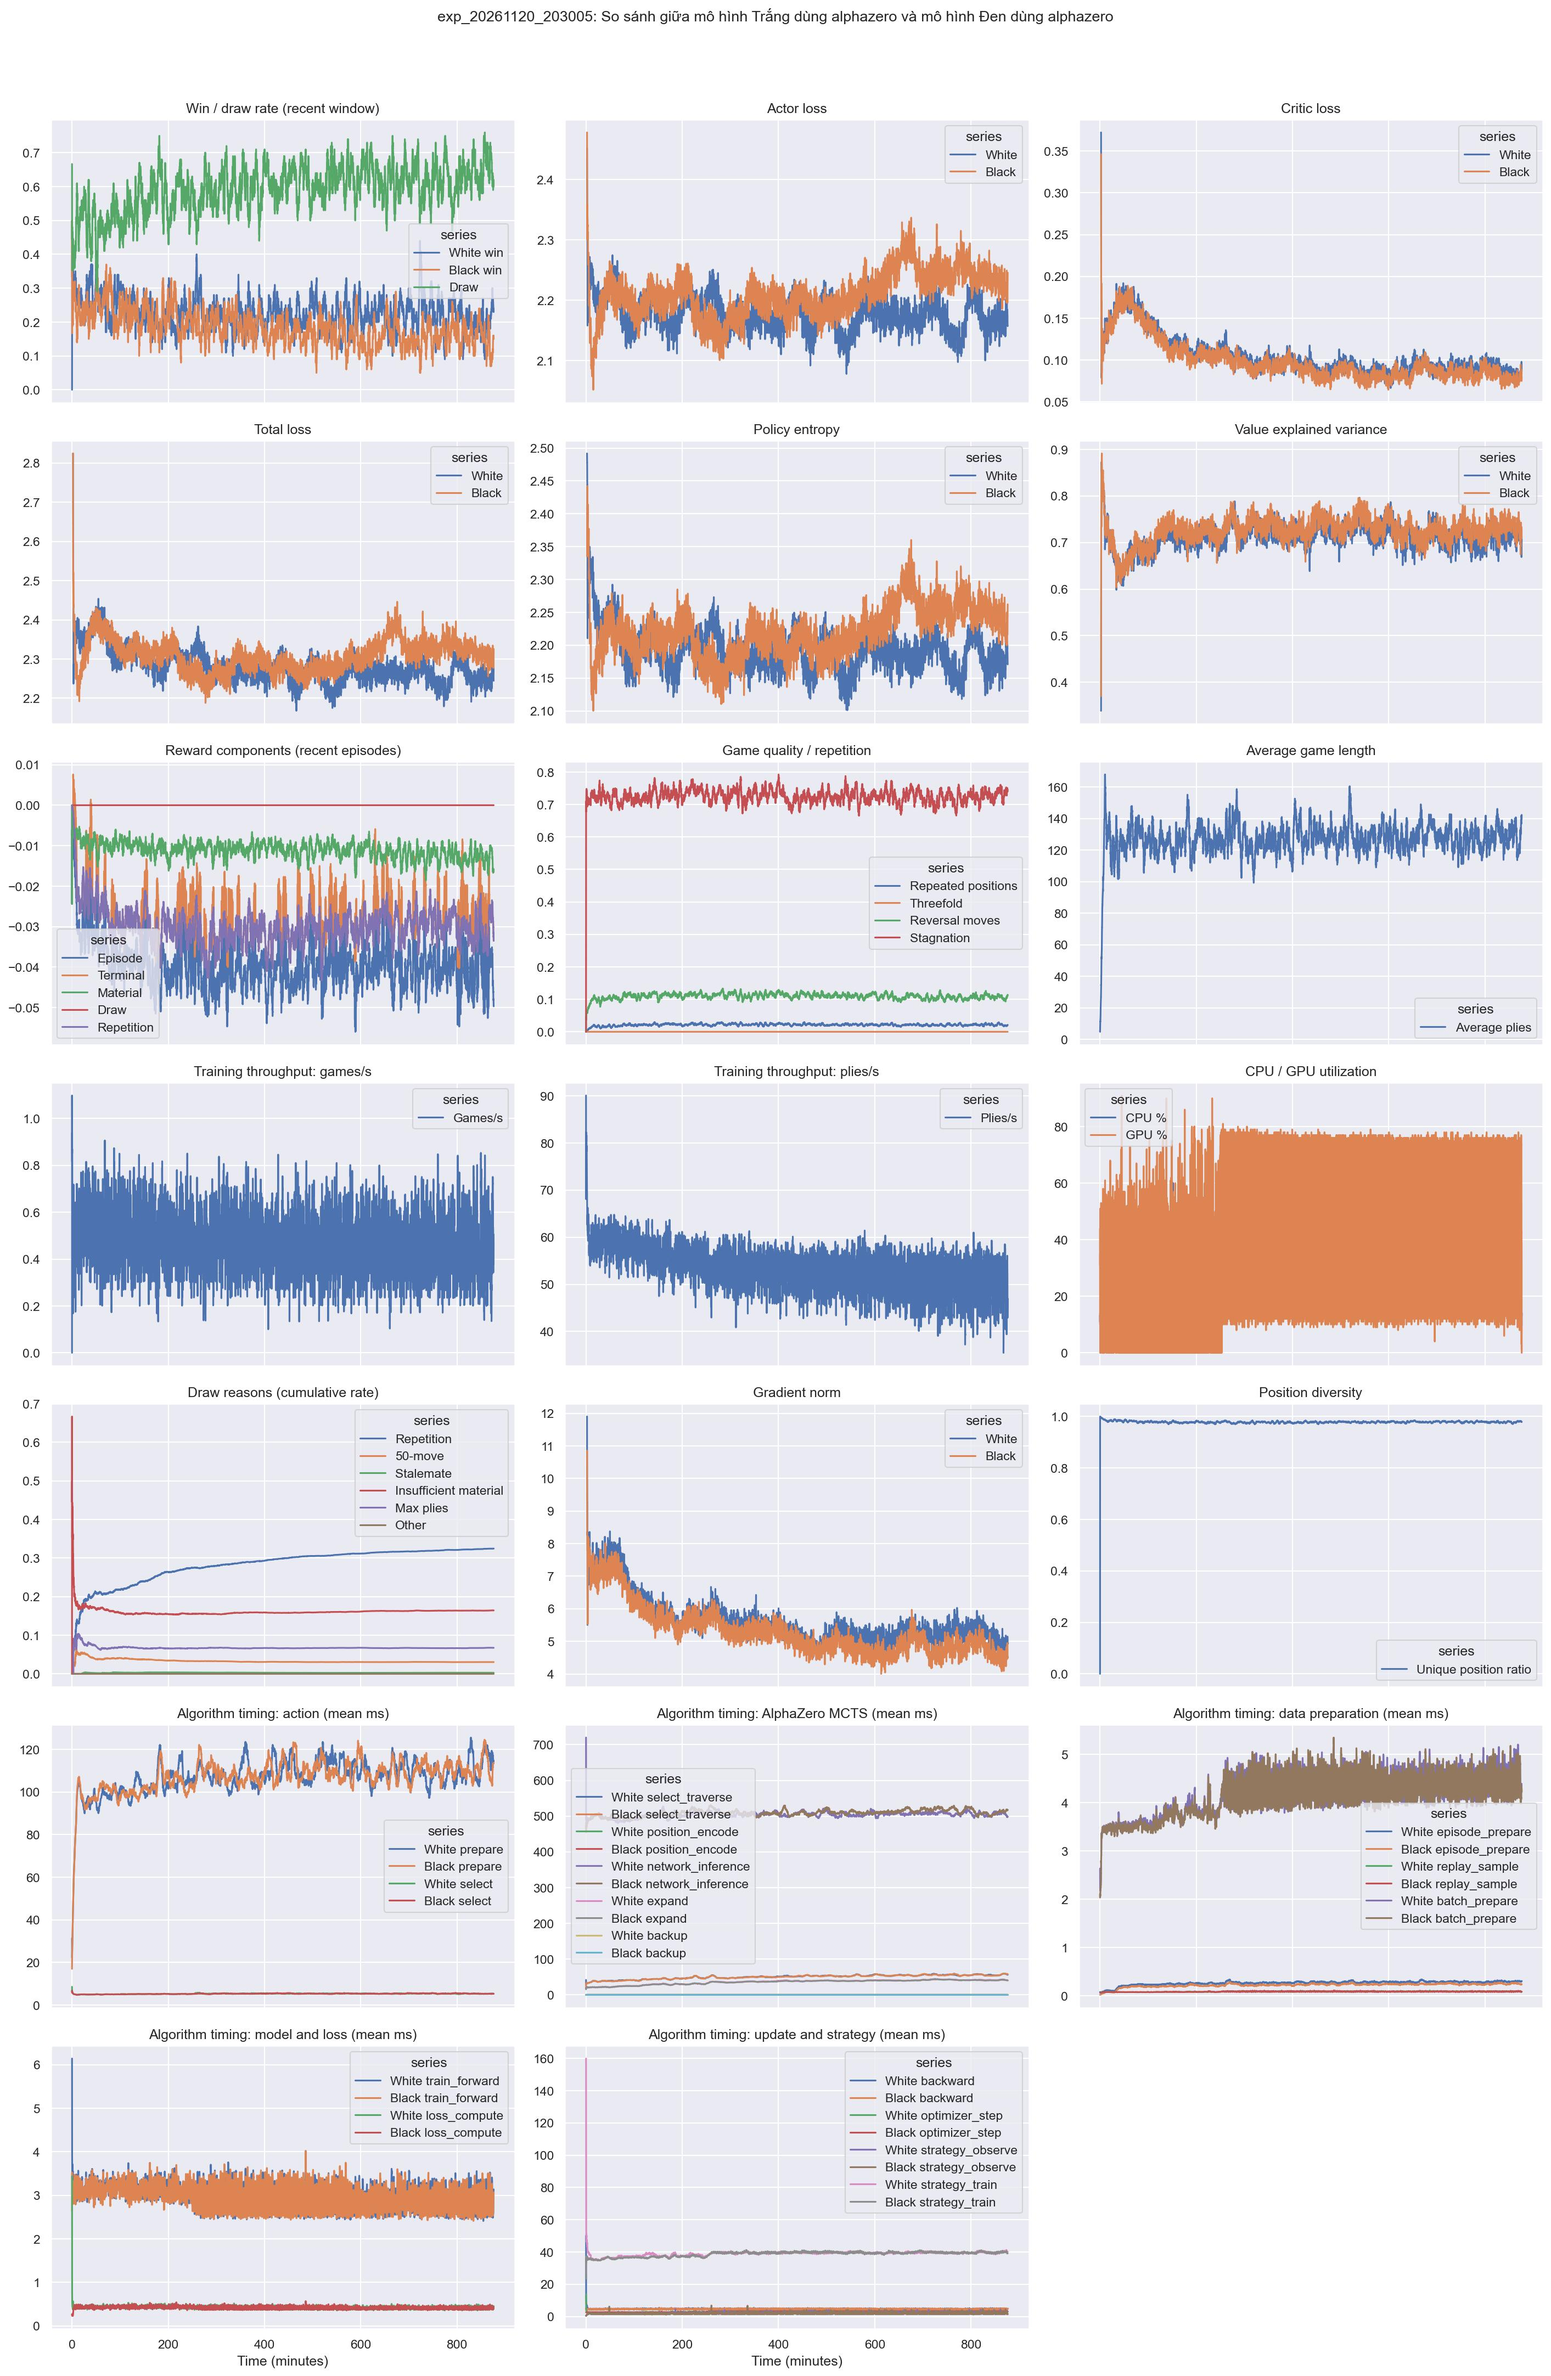
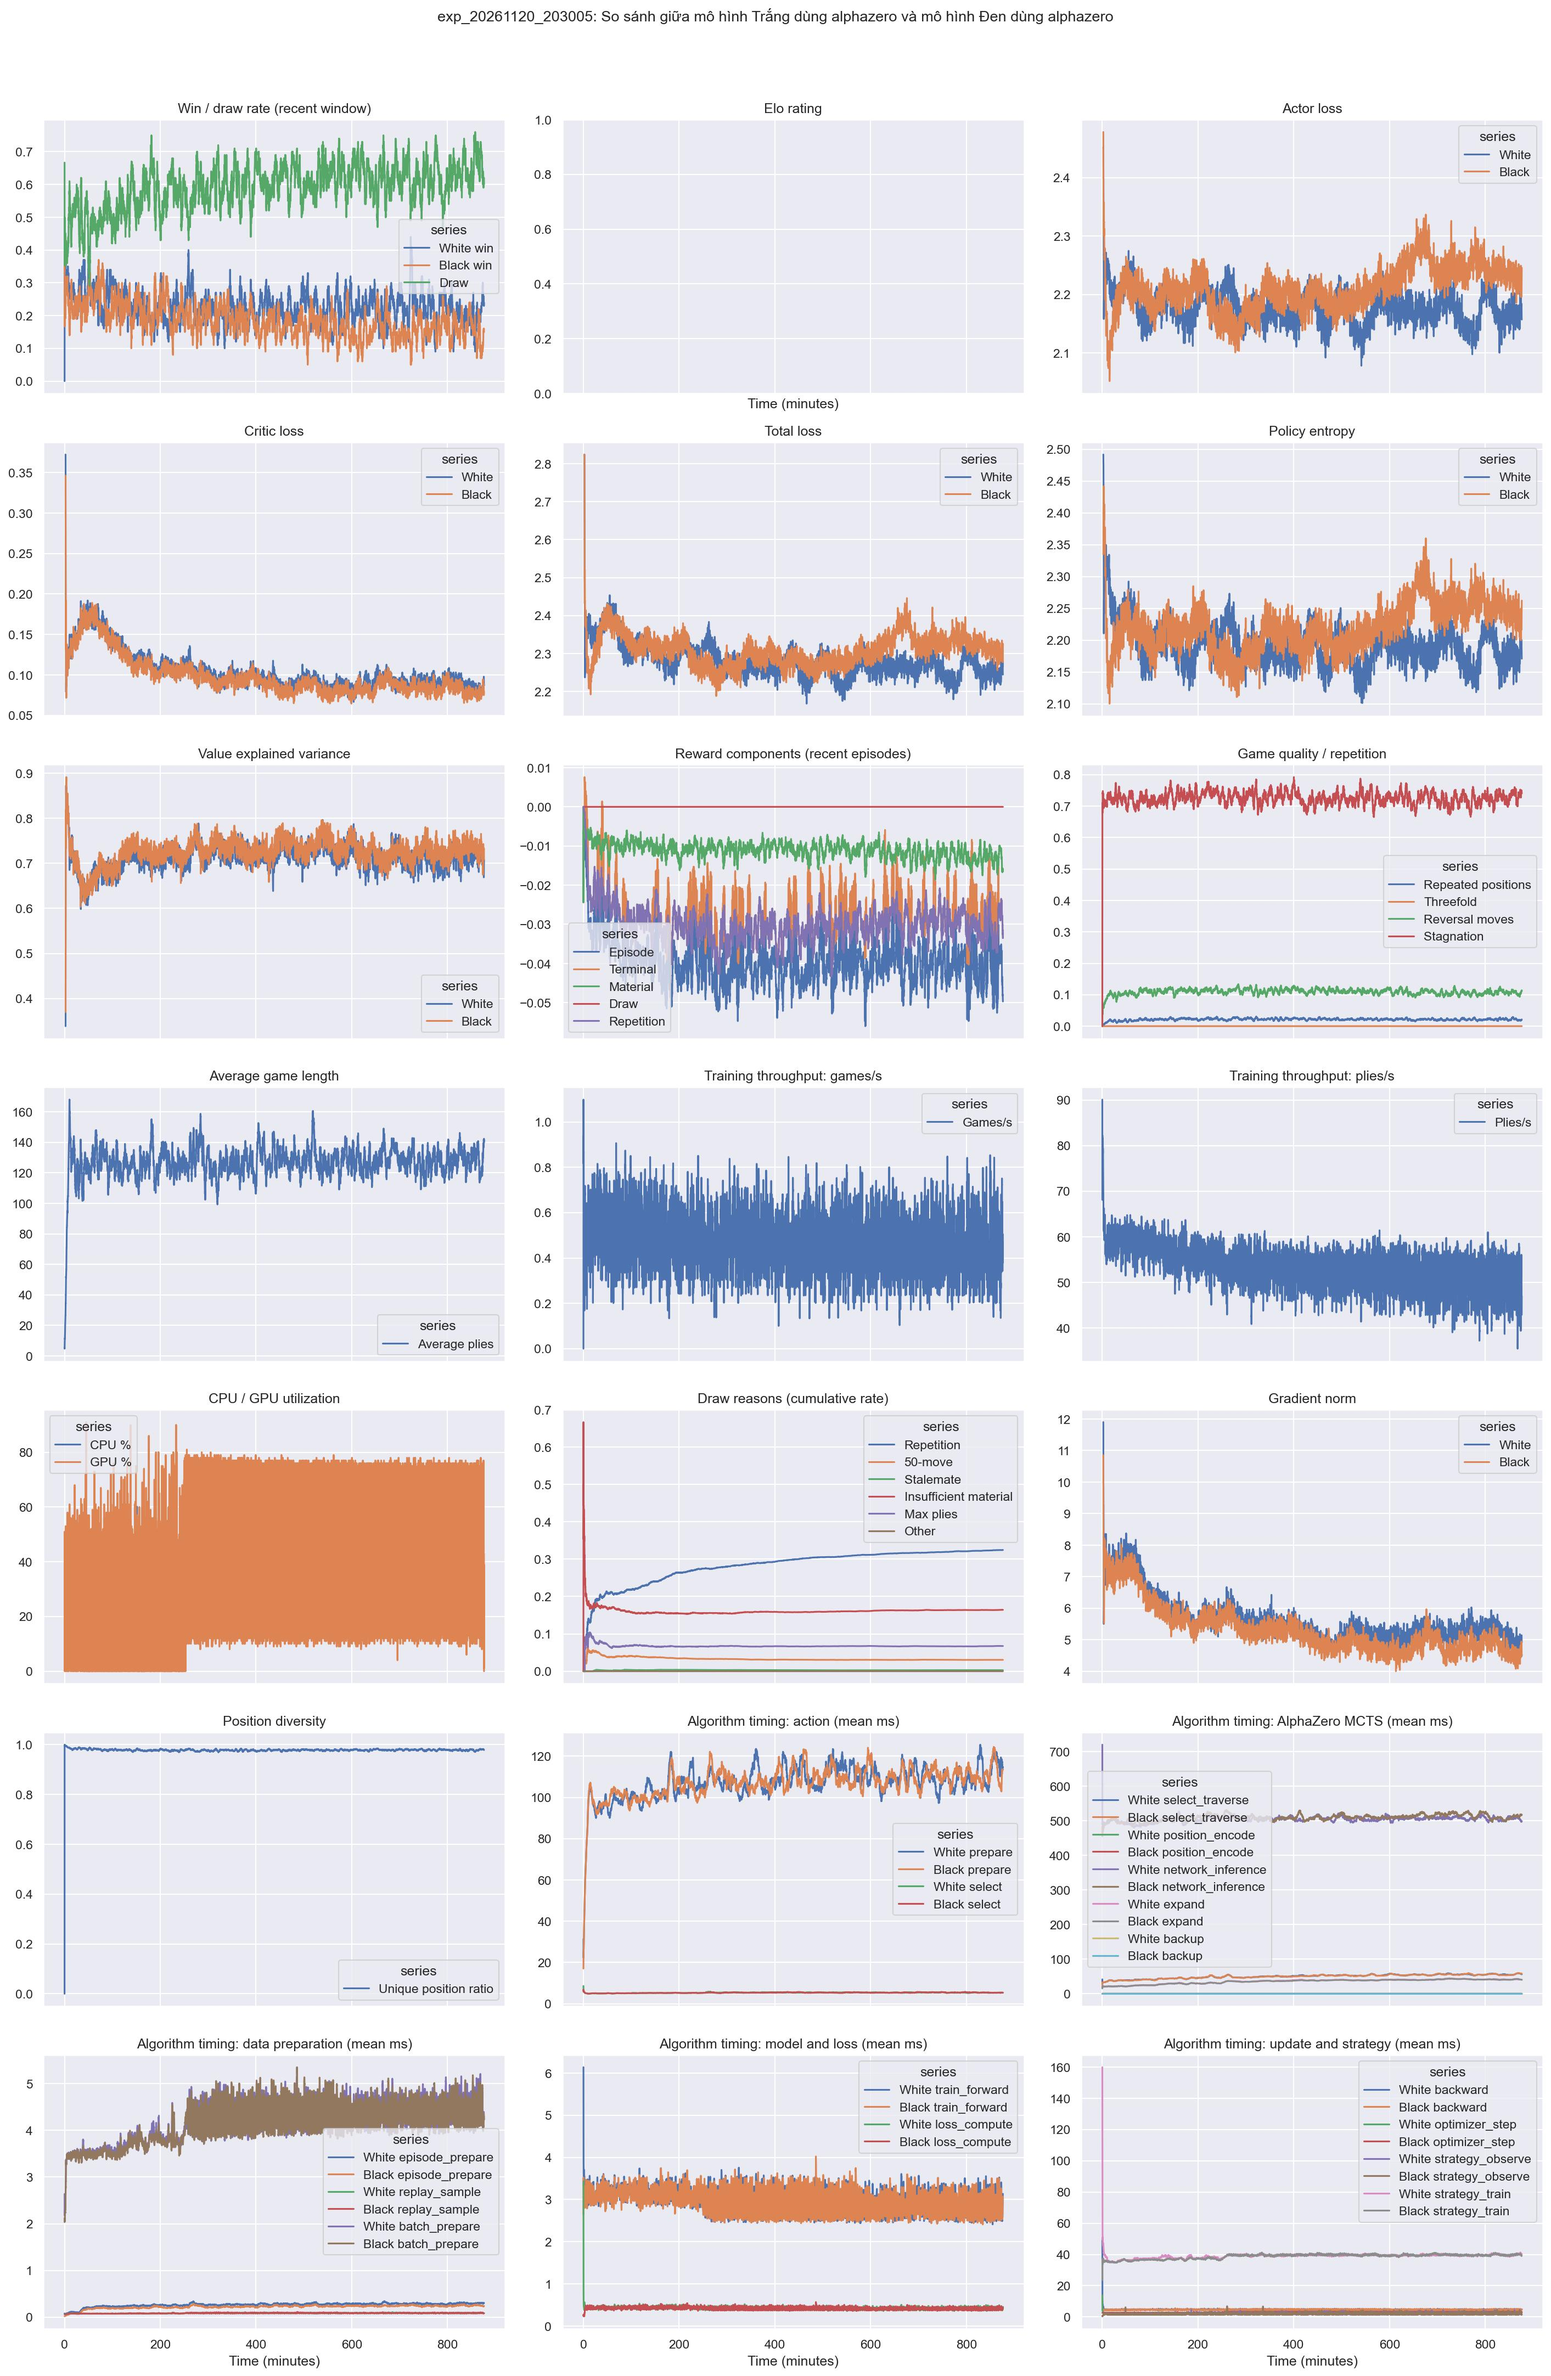
feat: Add all training plots for experiments.

diff --git a/src/tests/test_training_log.py b/src/tests/test_training_log.py
@@ -4,12 +4,40 @@ import os
 import tempfile
 import unittest
 from types import SimpleNamespace
+from unittest.mock import patch
 
+from plot_logging import generate_all_plot
 from plot_logging.plot_training import save_training_plot
 from plot_logging.training_log import TrainingLog
 
 
 class TrainingLogTests(unittest.TestCase):
+    def test_generate_all_plots_handles_csvs_in_valid_experiment_folders(self):
+        with tempfile.TemporaryDirectory() as temp_dir:
+            checkpoint_dir = os.path.join(temp_dir, "checkpoints")
+            experiment_dir = os.path.join(checkpoint_dir, "exp_20260101_123456")
+            invalid_experiment_dir = os.path.join(checkpoint_dir, "exp_test")
+            os.makedirs(experiment_dir)
+            os.makedirs(invalid_experiment_dir)
+            csv_paths = [
+                os.path.join(experiment_dir, "training_log.csv"),
+                os.path.join(experiment_dir, "other.csv"),
+                os.path.join(invalid_experiment_dir, "ignored.csv"),
+            ]
+            for path in csv_paths:
+                with open(path, "w", encoding="utf-8"):
+                    pass
+
+            with patch.object(generate_all_plot, "save_training_plot") as save_plot:
+                output_paths = generate_all_plot.generate_all_plots(checkpoint_dir)
+
+        expected_paths = [
+            os.path.join(experiment_dir, "other.jpg"),
+            os.path.join(experiment_dir, "training_log.jpg"),
+        ]
+        self.assertEqual(output_paths, expected_paths)
+        self.assertEqual(save_plot.call_count, 2)
+
     def test_save_writes_csv_rows_with_metadata_and_flat_metrics(self):
         log = TrainingLog(started=0, interval=5)
         log.records.append({

diff --git a/src/plot_logging/generate_all_plot.py b/src/plot_logging/generate_all_plot.py
@@ -1,0 +1,41 @@
+import re
+import sys
+from pathlib import Path
+
+if __package__:
+    from .plot_training import save_training_plot
+else:
+    from plot_training import save_training_plot
+
+
+EXPERIMENT_PATTERN = re.compile(r"exp_\d{8}_\d{6}")
+
+
+def generate_all_plots(checkpoint_dir=None):
+    if checkpoint_dir is None:
+        checkpoint_dir = Path(__file__).resolve().parents[2] / "checkpoints"
+    else:
+        checkpoint_dir = Path(checkpoint_dir)
+
+    experiment_dirs = sorted(
+        path for path in checkpoint_dir.glob("exp_*")
+        if path.is_dir() and EXPERIMENT_PATTERN.fullmatch(path.name)
+    )
+    csv_paths = sorted(
+        csv_path
+        for experiment_dir in experiment_dirs
+        for csv_path in experiment_dir.rglob("*.csv")
+    )
+    if not csv_paths:
+        sys.exit(f"No CSV files found under {checkpoint_dir}")
+
+    output_paths = []
+    for csv_path in csv_paths:
+        output_path = csv_path.with_suffix(".jpg")
+        save_training_plot(str(csv_path), output_path=str(output_path))
+        output_paths.append(str(output_path))
+    return output_paths
+
+
+if __name__ == "__main__":
+    generate_all_plots()

diff --git a/README.md b/README.md
@@ -215,6 +215,12 @@ Hoặc chỉ định một log cụ thể:
 python src\plot_logging\plot_training.py checkpoints\exp_YYYYMMDD_HHMMSS\training_log.csv
 ```
 
+Tạo biểu đồ cho tất cả file CSV trong các experiment:
+
+```powershell
+python src\plot_logging\generate_all_plot.py
+```
+
 `training_log.csv` lưu loss, reward, entropy, win/draw rate, Elo, repetition, độ dài ván, throughput, nguyên nhân hòa và timing từng giai đoạn. Biểu đồ huấn luyện có đường Elo Trắng/Đen theo thời gian. `metrics.json` lưu các thống kê tổng hợp của experiment, bao gồm Elo hiện tại của hai bên.
 
 ## Native Rust MCTS cho AlphaZero
